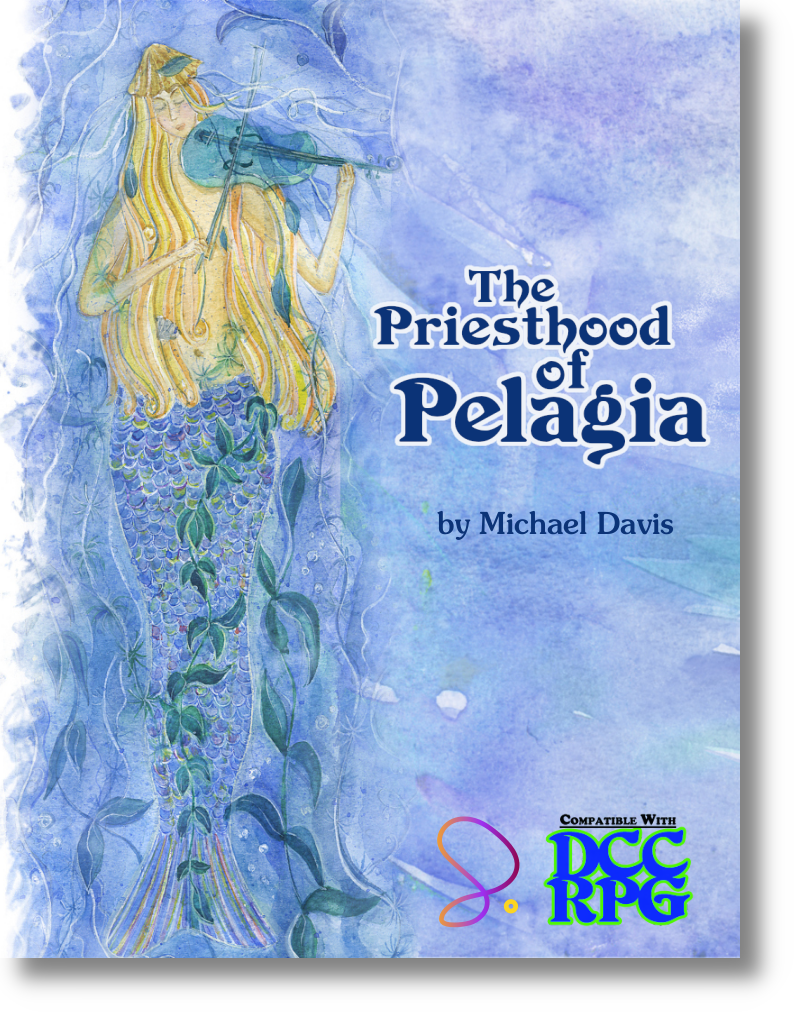
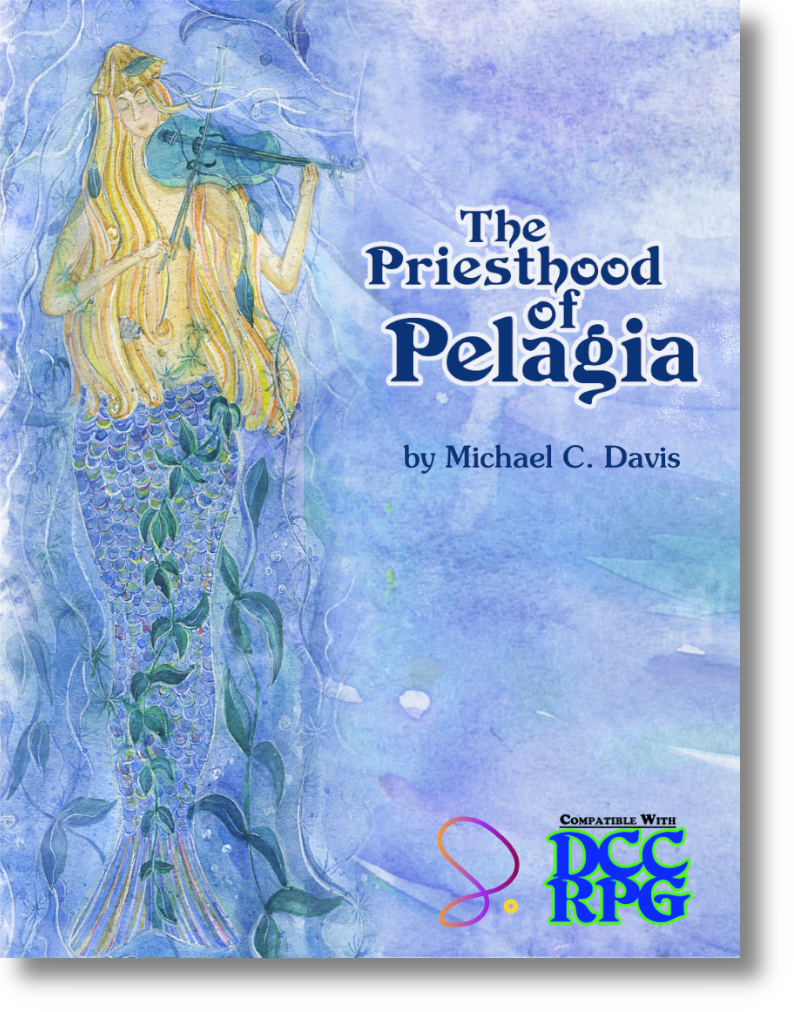
Updates Pelagia cover and links

diff --git a/_posts/2024-04-07-priesthood-of-pelagia.md b/_posts/2024-04-07-priesthood-of-pelagia.md
@@ -7,27 +7,23 @@ category: RPG
 
 ![The Priesthood of Pelagia for DCC RPG Cover](/assets/images/PriesthoodOfPelagiaCover.png)
 
-*The viol's melody filled the air with an inexpressible sweetness and longing, the
-final notes lingering after the musician's hand became still. Finnigan the bard
-appreciated the few seconds of silence before the audience in the Black Lobster
-broke into thunderous applause. Taking his bow, the bard sat down with a
-satisfied smile.*
+*The viol's melody filled the air with an inexpressible sweetness and longing, the final notes lingering after the
+musician's hand became still. Finnegan the bard appreciated the few seconds of silence before the audience in the
+Black Lobster broke into thunderous applause. Taking his bow, the bard sat down with a satisfied smile.*
 
-*"Aye, she may seem serene from afar, lad," said a gruff voice at his elbow.
-Finnegan turned his head. The old sea-dog paused to wipe some foam from his
-grizzled beard before continuing. "Mark my words, she's as capricious as the sea
-herself. The Mistress of Storms, she is, you'd do well to remember it." Finnigan
-stared. The old man dropped his voice to a throaty whisper. "And then there's
-the lunacy, in't there? Don't you forget the moon what controls the tides is the
-same what drives men mad."*
+*"Aye, she may seem serene from afar, lad," said a gruff voice at his elbow. Finnegan turned his head. The old
+sea-dog paused to wipe the foam from his grizzled beard before continuing, "Mark my words, she's as capricious as the
+sea herself. The Mistress of Storms, she is, an' you'd do well to remember it."*
 
-This rules supplement for clerics of Pelagia includes weapons and armour, three
-new spells, and tables for disapproval and languages.
-It also has notes for Judges, including details of the cult of Pelagia who survived
-the Ruean catastrophe, six artefacts and magical items and a detailed list of
-inspirational sources.
+*Finnegan stared. The old man dropped his voice to a throaty whisper, "And then there's the lunacy, in't there? Don't 
+you forget the moon what controls the tides is the same what drives men mad."*
+
+This rules supplement for clerics of Pelagia includes weapons and armour, three new spells, and tables for disapproval
+and languages.
+
+The notes for Judges include details of the cult of Pelagia who survived the Ruean catastrophe, six artefacts and 
+magical items and a detailed list of inspirational sources.
 
 This product is compatible with the Dungeon Crawl Classics Role Playing Game.
 
-[Download from Goodman Games](https://goodman-games.com/store/product/the-priesthood-of-pelagia-pdf/){: .btn .btn--info}{:target="_blank"}{:rel="noopener noreferrer"}
-[Download from DriveThruRPG](https://www.drivethrurpg.com/product/476883/The-Priesthood-of-Pelagia?affiliate_id=208228){: .btn .btn--info}{:target="_blank"}{:rel="noopener noreferrer"}
+[Download from DriveThruRPG](https://www.drivethrurpg.com/product/476883/The-Priesthood-of-Pelagia?src=strangequark.eu&affiliate_id=208228){: .btn .btn--info}{:target="_blank"}{:rel="noopener noreferrer"}

diff --git a/_posts/2009-06-30-crusader-20.md b/_posts/2009-06-30-crusader-20.md
@@ -27,4 +27,4 @@ Then here are the two articles that really kicked it up a notch (for me, anyway)
 "Ecology of ..." articles in Dragon magazine but also is a full fledged encounter (for levels 3-5) you can stick in your
 game anytime somebody goes into the woodline for something. And you get a brand new monster!*
 
-[Download from DriveThruRPG](https://www.drivethrurpg.com/product/65366/Crusader-Journal-No-20?affiliate_id=208228){: .btn .btn--info}{:target="_blank"}{:rel="noopener noreferrer"}
+[Download from DriveThruRPG](https://www.drivethrurpg.com/product/65366/Crusader-Journal-No-20?src=strangequark.eu&affiliate_id=208228){: .btn .btn--info}{:target="_blank"}{:rel="noopener noreferrer"}

diff --git a/_posts/2009-05-29-secret-of-ronan-skerry.md b/_posts/2009-05-29-secret-of-ronan-skerry.md
@@ -15,4 +15,4 @@ This 20-page full-sized module was written for the Castles & Crusades role-playi
 be run during the course of a session or two. The module includes four maps for the encounter areas and the surrounding
 wilderness and four new Creatures for Castles & Crusades.
 
-[Download from DriveThruRPG](https://preview.drivethrurpg.com/en/product/78578/The-Secret-of-Ronan-Skerry-CC?affiliate_id=208228){: .btn .btn--info}{:target="_blank"}{:rel="noopener noreferrer"}
+[Download from DriveThruRPG](https://preview.drivethrurpg.com/en/product/78578/The-Secret-of-Ronan-Skerry-CC?src=strangequark.eu&affiliate_id=208228){: .btn .btn--info}{:target="_blank"}{:rel="noopener noreferrer"}
